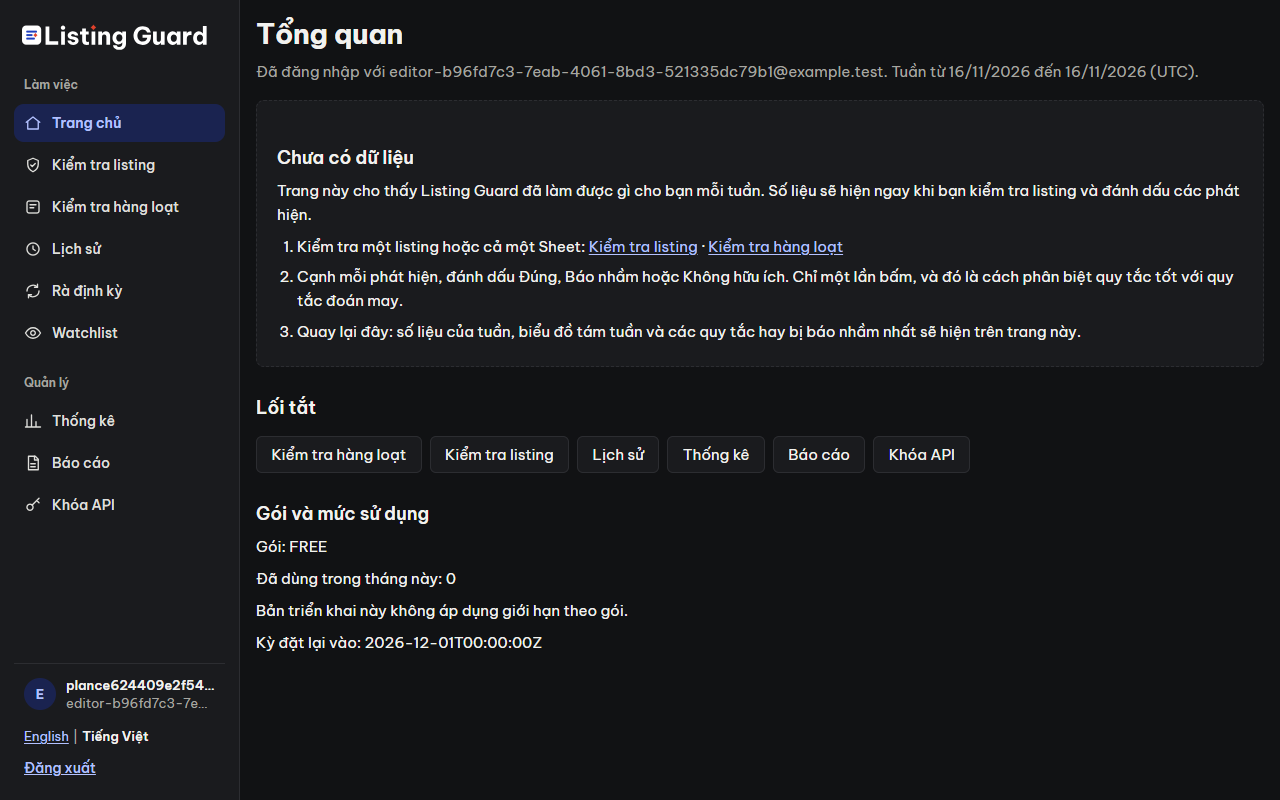
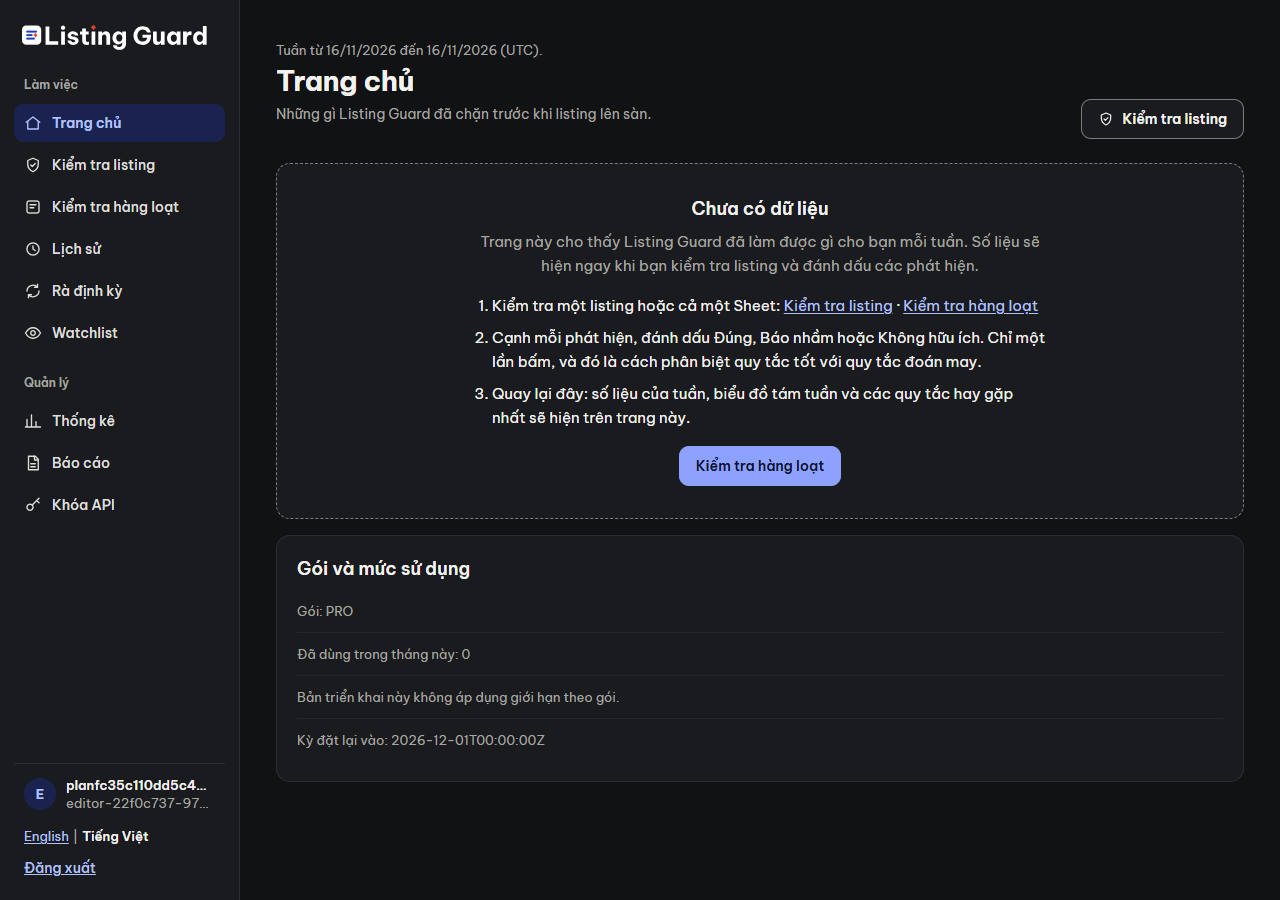
docs: ADR-041, screenshots of the work pages, bulk check and edit mode guides, release notes
New ADR-041 with the differences from the mockups, amendments to ADR-034 and ADR-040, light and dark screenshots of the home page, bulk result and detail, Check listing and edit mode, updated CLAUDE.md and unreleased release notes.

diff --git a/docs/adr/ADR-041-console-work-pages.md b/docs/adr/ADR-041-console-work-pages.md
@@ -1,0 +1,167 @@
+# ADR-041: The work pages on the design system
+
+- Status: Proposed
+- Date: 2026-11-16
+- Depends on: [ADR-014](ADR-014-listing-workspace.md) (the editor), [ADR-028](ADR-028-console-localization.md) (no sentence in a
+  template), [ADR-029](ADR-029-console-bulk-check.md) (bulk check), [ADR-033](ADR-033-edit-mode-and-check-history.md) (edit mode),
+  [ADR-034](ADR-034-finding-feedback-and-value-dashboard.md) (the home page, the feedback buttons),
+  [ADR-035](ADR-035-periodic-reaudit.md) (the re-audit notice), [ADR-036](ADR-036-free-tier-llm-providers-and-trademark-context-judge.md)
+  (the LLM label), [ADR-037](ADR-037-llm-rewrite-suggestions-verified-by-rules.md) (rewrite suggestions),
+  [ADR-040](ADR-040-console-visual-identity-and-design-system.md) (the shell, the tokens and `app.css`)
+- Source: the mockups `docs/design/screens/1-trang-chu`, `2-kiem-tra-hang-loat` and `3-chi-tiet-listing`
+- Acceptance convention: Keep Proposed until the PR implementing this ADR is approved and merged. Then set Status to
+  Accepted and Date to the merge date.
+
+## Context
+
+ADR-040 gave the console a shell, tokens and base components and left every page on its own sheet. The pages a seller uses every day
+(the home page, Check listing, Bulk check, edit mode, the rewrite suggestions and the feedback buttons) still had a card with a colored
+edge, four different ways to print one finding, and sheets with their own color names. This ADR moves them to the components. The brief
+is the mockups' layout and order of information, filled with the data each page really has; nothing from a mockup's sample data goes in.
+
+## Decision
+
+### 1. One finding card, one listing view
+
+A finding is printed by one piece of markup, `templates/console/findings.html :: card`, on every page: the editor, a bulk row and an edit
+comparison. `FindingCards` (bean `findingCards`) turns each page's own record into a `FindingCard`; it decides nothing, it only adds the
+words of the page's language. The card has: the level pill (a word and a shape: a diamond for an error, a triangle for a trademark risk
+or a warning, a check for resolved) and the rule id as code; the finding's own message as the heading; where it is (`on <field>`, the
+catalog mark); what the rule checks; the evidence with the marked words; the suggestion and the verified fix in a pale block (the editor's
+"Apply suggestion" button stays the editor's alone and still only fills a field); the ADR-036 label when a language model called the word
+descriptive; the **source line**; and the three feedback buttons (ADR-034, `aria-pressed`).
+
+- **Source line.** `FindingSources` reads the active ruleset: the host name of the first address the rule names ("developers.etsy.com") and
+  the verification word ("verified", "secondary source", "unverified"). It is not the rule's `note`, which says how the number was found,
+  not where. A trademark finding says its origin: the catalog, the client's watchlist or a context rule. A rule the ruleset does not
+  declare has no source line.
+- **The red diamond** marks an `ERROR` and a `HIGH` trademark risk that is not resolved; a resolved finding in edit mode gets a success pill
+  and no diamond.
+- **The listing as checked** (`ListingView`, `findings.html :: listing`) is the left of a result: the title with the words a finding points
+  at marked (`lg-highlight`: the warning ground for a trademark span, the error ground and a line for an error), the tags as chips (a flagged
+  chip has a shape and a word for a screen reader as well as its ground) or the bullet points, and the start of the description. A trademark
+  span is the finding's span; a rule's mark is its value, found in the field, and never the whole field. It is built for the response from the
+  listing of that request and never kept.
+- **The readiness** is a native `<progress>` and the number, "62/100". The maximum is the readiness setting (`baseScore` of
+  `readiness-2026-11.yaml`), read from `ReadinessScorer`, not a number of the page.
+
+### 2. The home page
+
+Header (the week, the title, a sentence, the one brand button "Kiểm tra listing"), the re-audit notice (ADR-035) as a warning banner, four
+figures, **Cần xử lý**, **Dữ liệu kiểm tra**, the chart, the frequent rules, and the plan line.
+
+- **Figures.** Listings checked, listings held back by an `ERROR`, trademark holds by source (watchlist, catalog, context rule) and the
+  reported false-positive rate, from ADR-034's queries. `trademarkHoldsBySource` now tells the client's own watchlist (`watchlist_match`)
+  from the catalog, which share the `matched_mark` column; a result held by two sources is counted under both, as before.
+- **Cần xử lý** is the latest five results of the client with an `ERROR` or a `HIGH` trademark risk, each with its SKU (when a bulk row gave
+  one) or its rule id, a pill, the finding's own message and the marketplace and time. It reads `check_history_event` and the first stored
+  finding of that result (`ConsoleAttentionQueries`), every statement starting with the client's id, a trademark result only while it is
+  retained. **This changes a sentence of ADR-034**: the home page was counts only; it now also prints one finding message and a SKU of this
+  client's own, the same text the History page prints to the same account. The health report, the statistics and the CSV are unchanged and
+  still read no text. The page is `no-store`.
+- **Dữ liệu kiểm tra** is the catalog (source name and the date of its data, from `trademark_catalog_version`, and its version), the
+  number of enabled watchlist entries, the latest re-audit (date and new risks, counts only) and the rulesets in force. The LLM counter of
+  ADR-036 is a row here, not a figure.
+- **The chart** is one series, the listings held back by an `ERROR` per week (the mockup's "Lỗi chặn được theo tuần"), eight weeks, each bar
+  with its number; the current week is the brand color and the weeks before it the pale brand ground with a brand outline (the outline keeps
+  the bar visible; the pale fill alone is under 3:1). The listings checked stay in the table under the chart. This drops ADR-034's second
+  series from the picture, not from the page.
+- **Frequent rules** are the listing rules with the most findings in the eight weeks, with the false positives reported on each; a rule
+  whose count the report did not list (more were marked than it lists) shows a dash, never zero.
+- The home page has **one brand button**: with no data yet it is the empty state's button to the bulk check, and the header's is plain.
+  The shortcuts block is gone (the sidebar has every page); the plan and usage stay as a short list.
+
+### 3. The bulk check
+
+An input card with the segmented "Dán từ Sheet | Tải file", the marketplace, a monospace text area and the two ways forward. At the mapping
+step the columns the page understood are chips ("A → SKU") with "Sửa ánh xạ" opening the table that corrects them (always in the form, so
+one press sends every choice) and the primary button "Kiểm tra N dòng". The result card has the summary pills (rows, errors, rows with a
+trademark finding, warnings, OK, not checked), "Sao chép cột kết quả" and "Tải CSV", the status filter, the table (the red diamond on a row
+whose main finding is an error or a high risk, the status pill, "Chi tiết") and the note that the rows keep the order they were pasted in.
+
+- **The detail** of a row opens under it as a second table row, shown when its "Chi tiết" link is the target of the address (`:target`): no
+  script, it works with the keyboard and the back button, and one detail is open at a time. `bulk.js` hides a detail with its row when the
+  status filter hides the row. The detail has two columns, the listing as checked with its readiness and the trademark result and
+  disclaimer on the left, the cards on the right. The result is still never stored, so a detail cannot be its own page.
+- **"Đạt" stays "Đạt".** The mockup says "Sạch" (clean); ADR-029 chose a word that is never a marketplace's or a trademark verdict, and
+  "clean" would claim more.
+
+### 4. Check listing, edit mode and the rewrite suggestions
+
+Check listing has the form on the left and, on the right, the listing as checked with its readiness, the trademark panel (with the ruleset's
+disclaimer inside it, as ADR-014 requires), the findings grouped by level and, last, a short statement that these are warnings and not
+legal advice, then the simulation. Edit mode has the two text areas side by side and the groups **Mới** (a red diamond), **Đã sửa** (success
+pill, count and, on a finding that is gone, "Đã sửa") and **Còn lại**, each finding a card; a finding that changed says what it said before.
+The rewrite panel is a list of cards with a copy button each; "Không có gợi ý an toàn" and "Không cần sửa" are the empty state.
+
+### 5. The style sheets
+
+`app.css` gained the components of the pages: the finding, the listing, the meter, the feedback buttons, the key-value and attention lists,
+the chart, the candidate, the detail row and the banners for done and refused (`lg-banner--success`, `--error`). `console.css` is now the sheet
+of the pages not moved yet and holds only what they still use, with the old color names written as tokens; `editor.css` and `bulk.css`
+hold the layout of their page only; `rewrite.css` is gone. The alias block of `editor.css` is gone, so no sheet declares a color name of its
+own (`ConsolePageCssTest`: no color code, no old name, no unknown variable, and the list of sheets). The pages that moved do not load
+`console.css`.
+
+### 6. Accessibility
+
+A table has a caption that only a screen reader sees; every decorative icon and the red diamond are `aria-hidden`; the chart is `role="img"`
+named by its heading; the feedback buttons carry `aria-pressed`; the regions that htmx fills (the editor's results, the feedback status, the
+copy status, the rewrite result) are polite live regions; a page has one `h1` and the skip link's target; the readiness meter is a native
+element with a name; the keyboard meets the form before the result and the result before the preview, and a row's link right after the row.
+`ConsoleWorkPagesAccessibilityIntegrationTest` reads these as a browser receives them.
+
+## Differences from the mockups
+
+Data the pages do not have, or a technical limit:
+
+- **Home.** No "Xuất báo cáo" button (the report is its own page); no "+48 so với tuần trước" (this week is partial, so a difference
+  with a whole week would mislead); the second figure is listings with an `ERROR`, not a count of errors; "Cần xử lý" has the marketplace
+  and time where the mockup has a seller account label (a check stores none), and no "Rà định kỳ" rows (a re-audit stores no finding text);
+  the chart shows eight weeks, not six; the rules table has listing rules only (the trademark pack's top list is of marks, not rules).
+- **Bulk.** "Đạt", not "Sạch"; no title column in the table (the title is in the detail, where the words are marked); "Chi tiết" opens
+  under the row, not on a page of its own.
+- **Detail.** No "Chế độ sửa" and "Copy title gợi ý" buttons: edit mode needs both versions and a bulk result is not stored; the rewrite
+  button exists only behind the LLM switch and is in the row's detail. The finding's heading is the finding's own message, not a short title,
+  and its paragraph is the rule's sentence. The tag counter has no maximum in a bulk row (the limits are read for the editor only).
+- **The source line** names a host, not a document title ("Etsy Seller Handbook"), because that is what the ruleset records.
+
+## Consequences
+
+- One look for a finding on every page, and one place to change it.
+- A pack that adds a finding field adds it to `FindingCard` once.
+- The home page reads one finding message and a SKU per attention row; ADR-034's "counts only" no longer holds for that block.
+- Pages not moved yet (API keys, statistics, report, re-audit, watchlist, history) keep `console.css`.
+
+## Alternatives considered
+
+- **Two series in the chart.** Rejected: the mockup draws one, the number of listings checked has its card, and a second bar halves the
+  width of the one the page is about. The table keeps both.
+- **A detail opened by script, or by a hidden checkbox.** Rejected: `:target` needs neither and gives a link with a history.
+- **Passing every field to the card as a fragment parameter.** Rejected: nineteen parameters, and Thymeleaf does not allow a bean call in
+  a fragment argument. A Java adapter per page keeps the template to one call.
+- **"Sạch".** Rejected, see section 3.
+
+## Open questions
+
+1. The Vietnamese copy of the new keys (the home blocks, the finding card, the bulk detail) needs a native read, like the rest of ADR-028.
+2. Should "Cần xử lý" list re-audit rows once a re-audit keeps a finding message? Today it keeps none, on purpose (ADR-035).
+3. Should the bulk result table show the title? It would put the seller's text in the table as well as in the detail.
+
+## Results
+
+Rendered and photographed (Chromium, 1280 px, light and dark, Vietnamese, synthetic listings and the DEMO catalog): the home page with a week of
+data and with none, the bulk check result and the detail of a row, Check listing with a result, and edit mode.
+
+![Home, light](../images/console/home-week-light.png)
+![Home, dark](../images/console/home-week-dark.png)
+![Bulk result, light](../images/console/bulk-result-light.png)
+![Bulk result, dark](../images/console/bulk-result-dark.png)
+![Bulk row detail, light](../images/console/bulk-detail-light.png)
+![Bulk row detail, dark](../images/console/bulk-detail-dark.png)
+![Check listing, light](../images/console/editor-result-light.png)
+![Check listing, dark](../images/console/editor-result-dark.png)
+![Edit mode, light](../images/console/edit-mode-light.png)
+![Edit mode, dark](../images/console/edit-mode-dark.png)
+
+Not measured: Safari and Firefox, a screen reader, and a window narrower than 600 px.

diff --git a/CLAUDE.md b/CLAUDE.md
@@ -405,7 +405,7 @@ It never edits a listing, never publishes, and does no SEO.
   paginates saved pack results, and stores event references (actor, result, time, marketplace, row count, optional SKU) only; listing
   text is never stored. A history result cannot restore the prior listing: edit mode leaves Before blank and asks the seller to paste it.
   SDK, read-only MCP `check_listing_edit`, agent skill, OpenAPI and integration docs are updated. **LLM rewrite suggestions (ADR-037, Proposed; V42)** (`api/.../rewrite/`,
-  `console/editor/ConsoleRewriteController`, `templates/console/rewrite{,-page}.html`, `static/console/rewrite.{js,css}`,
+  `console/editor/ConsoleRewriteController`, `templates/console/rewrite{,-page}.html`, `static/console/rewrite.js`,
   [docs/llm.md](docs/llm.md)): **off by default** (`listing-guard.llm.rewrite.enabled=false`) and is usable only when the shared ADR-036 `LlmClient` is on with a provider whose listing-text flag is true
   (`LlmClient.canServe(LISTING_TEXT)`): with the switch off there is no bean of the package and no route, with no such provider there is no
   button (`rewriteAvailable` from `ConsoleRewriteAdvice`). A press of "Gợi ý sửa" (editor, and each bulk row with an ERROR or a
@@ -458,8 +458,9 @@ It never edits a listing, never publishes, and does no SEO.
   note and times, **never a text of the listing**. `FindingFeedbackService` is the only writer and `FeedbackStatsQueries` the only place that
   counts verdicts (statistics page and endpoint, home page, health report). htmx 2.0.4 comes from the WebJar (`api/pom.xml` `htmx.version`
   equals `ConsoleVendorResources.HTMX_VERSION`, a test holds it), is served at `/console/vendor/htmx.min.js` and is the only script added; the
-  widget is a plain POST form that works without it. `GET /console` is the home page (week cards, a server-drawn SVG chart of eight
-  weeks, rules most often marked false positive, shortcuts, an empty state) and `GET /console/stats[.csv]` the statistics. API:
+  widget is a plain POST form that works without it. `GET /console` is the home page (ADR-041: four week figures with the trademark
+  holds by source, "Cần xử lý" (the latest results with an ERROR or a HIGH risk), "Dữ liệu kiểm tra" (catalog and its date, watchlist, latest
+  re-audit, rulesets), a server-drawn SVG chart of eight weeks, the most frequent rules with their false positives, an empty state) and `GET /console/stats[.csv]` the statistics. API:
   `POST /api/v1/feedback` and `GET /api/v1/feedback/stats` (no plan pack, no quota; problems `invalid-feedback`, `finding-not-found`);
   `HealthReport.feedback`. The MCP server and the SDK have no method for them.
   **Periodic re-audit (ADR-035, Proposed; V40)** (`api/.../console/reaudit/`, `templates/console/reaudit*.html`; docs/reaudit.md): menu
@@ -1050,9 +1051,15 @@ On Windows use `mvnw.cmd`, with `JAVA_HOME` pointing at a JDK 21.
   `--variant`; the shell is `app-`), with a state shown by a word and a shape (red only for a problem: `--danger` text, `--accent` the diamond
   mark), and its text from message keys in both bundles. No gradient, no emoji, no card with a colored edge on one side. Dark is
   `prefers-color-scheme` only. Never edit `static/brand/` by hand: change `docs/design/` and run `scripts/sync-brand-assets.sh`
-  (`BrandTokensInSyncTest` fails a copy that differs). The old page sheets (`editor.css`, `console.css`, `bulk.css`, `rewrite.css`,
-  `watchlist.css`) are being retired page by page; `editor.css` keeps aliases of its old color names to tokens (`--accent` there is gone: the
-  token `--accent` is red). A test that scans a page for `<img>`, `<svg>` or `<script>` strips the sidebar first (`ConsoleTestSupport.withoutShell`).
+  (`BrandTokensInSyncTest` fails a copy that differs). **The work pages (ADR-041)** (home, Check listing, bulk check, edit mode, rewrite, feedback)
+  are on the components: a page that prints a finding builds a `FindingCard` through the bean `findingCards` (`FindingCards`: editor, bulk row,
+  edit comparison; `FindingSources` adds the source line from the active ruleset) and includes `console/findings :: card(${card})`, never its own
+  markup; the listing as checked is `ListingView` (`findings :: listing`) and the readiness a `<progress>` whose maximum is the readiness
+  setting. A fragment argument may not call a bean: evaluate it with `th:with` first. The bulk detail opens by `:target`, no script. Old sheets:
+  `console.css` is the sheet of the pages not moved yet (API keys, statistics, report, re-audit, watchlist, history) and goes with them;
+  `editor.css` and `bulk.css` hold the layout of their page only; `rewrite.css` and the alias block are gone, and `ConsolePageCssTest` holds
+  every sheet to no color code and no color name of its own. `ConsoleWorkPagesAccessibilityIntegrationTest` holds the captions, `aria-hidden`
+  icons, `aria-pressed` and live regions. A test that scans a page for `<img>`, `<svg>` or `<script>` strips the sidebar first (`ConsoleTestSupport.withoutShell`).
 
 ## Git
 

diff --git a/docs/bulk-check.md b/docs/bulk-check.md
@@ -14,7 +14,8 @@ OK, Warning, Error trên trang tiếng Anh.
 
 > **Ảnh chụp.** Các ô `[Ảnh chụp: ...]` bên dưới là chỗ để ảnh. Chưa chụp được ở lần viết này; khi chụp, đặt file vào
 > `docs/images/bulk-check/` với đúng tên ghi trong từng ô và thay ô bằng một ảnh Markdown trỏ tới `images/bulk-check/` cùng tên
-> file đó. Dùng listing giả (ví dụ mục `Zibblefrax` của catalog DEMO), không dùng dữ liệu thật của khách.
+> file đó. Dùng listing giả (ví dụ mục `Zibblefrax` của catalog DEMO), không dùng dữ liệu thật của khách. Ảnh của bảng kết quả và của
+> chi tiết một dòng đã có ở mục 4 (listing giả, catalog DEMO, giao diện sáng và tối).
 
 ## 1. Dán từ Sheet
 
@@ -33,7 +34,9 @@ bị cắt sẽ lệch dòng so với Sheet. Hãy chia thành nhiều lần dán
 
 ## 2. Chọn mỗi cột là gì
 
-Trang liệt kê các cột của bảng, vài ô mẫu của mỗi cột và một danh sách chọn.
+Trang cho thấy các cột đã được nhận dưới dạng nhãn (ví dụ `A → SKU`, `B → Title`, `C → Tags`) và nút chính **Kiểm tra N dòng** (N là
+số dòng sẽ được kiểm tra, không tính dòng trống). Liên kết **Sửa ánh xạ** mở bảng các cột, mỗi cột có vài ô mẫu và một danh sách chọn;
+bảng tự mở khi chưa cột nào được nhận hoặc khi có lỗi cần sửa.
 
 `[Ảnh chụp: bulk-02-mapping.png — bước chọn cột với các cột đã được đoán sẵn]`
 
@@ -68,10 +71,14 @@ phân tách bằng dấu phẩy*).
 
 ## 4. Đọc kết quả
 
-`[Ảnh chụp: bulk-04-result.png — bảng kết quả với bộ lọc trạng thái và nút sao chép]`
+![Kết quả kiểm tra hàng loạt, giao diện sáng](images/console/bulk-result-light.png)
+![Kết quả kiểm tra hàng loạt, giao diện tối](images/console/bulk-result-dark.png)
+
+Đầu thẻ kết quả có các nhãn tóm tắt: số dòng, **Lỗi**, **Trademark** (số dòng có phát hiện nhãn hiệu; tính riêng nên một dòng có thể vừa
+Lỗi vừa Trademark), **Cảnh báo**, **Đạt** và **Chưa kiểm tra hoặc bỏ qua**.
 
 Bảng có một dòng cho mỗi dòng bạn đã dán, **đúng thứ tự**: số dòng gốc (dòng của văn bản nơi hàng đó bắt đầu, dòng tiêu đề là dòng 1),
-SKU nếu có, trạng thái, số phát hiện và phát hiện chính.
+SKU nếu có, trạng thái, số phát hiện và phát hiện chính. Dấu thoi đỏ đứng trước phát hiện chính khi đó là lỗi hoặc rủi ro nhãn hiệu cao.
 
 | Trạng thái | Nghĩa |
 | --- | --- |
@@ -84,9 +91,18 @@ SKU nếu có, trạng thái, số phát hiện và phát hiện chính.
 
 Phát hiện chính là cái đầu tiên trong thứ tự: lỗi quy tắc, rủi ro nhãn hiệu cao, cảnh báo quy tắc, cảnh báo biến thể, rủi ro nhãn hiệu
 trung bình, thông tin, rủi ro nhãn hiệu thấp. **Lọc** theo trạng thái bằng các nút phía trên bảng (cần JavaScript; không có thì mọi dòng
-đều hiện). **Bấm vào phát hiện chính** của một dòng để mở chi tiết như trang *Check listing*: điểm sẵn sàng đăng và bảng rủi ro nhãn
-hiệu cạnh nhau (kèm lời tuyên bố của catalog nhãn hiệu), rồi các phát hiện với thông điệp, gợi ý và, nếu có, gợi ý sửa đã được kiểm
-chứng. Gợi ý sửa chỉ để đọc; trang không áp dụng nó.
+đều hiện). Bấm **Chi tiết** ở cuối dòng để mở chi tiết ngay dưới dòng đó (không cần JavaScript; bấm **Đóng chi tiết** hoặc nút Quay lại của trình
+duyệt để đóng; mỗi lúc mở một chi tiết).
+
+![Chi tiết một dòng, giao diện sáng](images/console/bulk-detail-light.png)
+![Chi tiết một dòng, giao diện tối](images/console/bulk-detail-dark.png)
+
+Chi tiết có hai cột. Bên trái là **nội dung listing đã kiểm tra**: title với chữ bị phát hiện được tô (nền vàng nhạt cho nhãn hiệu, nền
+đỏ nhạt cho lỗi), tag dạng chip (chip bị gắn cờ có hình thoi hoặc tam giác, và chữ cho người đọc màn hình), phần đầu mô tả, điểm sẵn
+sàng đăng dạng thanh tiến độ, và kết quả nhãn hiệu kèm lời tuyên bố của catalog nhãn hiệu. Bên phải là **một thẻ cho mỗi phát hiện**:
+mức và rule id, thông điệp, quy tắc kiểm tra điều gì, bằng chứng, gợi ý và (nếu có) gợi ý sửa đã được kiểm chứng, nguồn của ngưỡng và
+mức xác minh, rồi ba nút phản hồi *Đúng*, *Báo nhầm*, *Không hữu ích*. Gợi ý sửa chỉ để đọc; trang không áp dụng nó. Nội dung listing
+chỉ có trong trang vừa nhận được; nó không được lưu.
 
 ### Chép kết quả ngược vào Sheet
 

diff --git a/docs/releases/unreleased.md b/docs/releases/unreleased.md
@@ -2,7 +2,7 @@
 
 Changes on `main` since v0.8.0 (see [v0.8.0.md](v0.8.0.md)) that have not shipped yet: edit mode and check history (ADR-033), finding feedback (ADR-034), the console in English
 and Vietnamese (ADR-028), the console bulk check (ADR-029), the `hf-convert` job (ADR-030), the value backtest with the labelled
-evaluation (ADR-032), the client trademark watchlist (ADR-031) the periodic re-audit of active listings (ADR-035) and the console's visual identity (ADR-040). Finding feedback,
+evaluation (ADR-032), the client trademark watchlist (ADR-031) the periodic re-audit of active listings (ADR-035), the console's visual identity (ADR-040) and the work pages on it (ADR-041). Finding feedback,
 the watchlist, edit mode and the re-audit touch the API, and only additively (see their sections); the bulk check adds migration V36,
 finding feedback V37, the watchlist V38, check history V39, the re-audit V40, the LLM usage counter V41 (ADR-036, off by default) and the rewrite suggestions V42 (ADR-037, off by default, console only), all additive. The other changes touch no API response,
 request, status, header or migration.
@@ -32,6 +32,31 @@ system setting, and one page shell. Sellers see it on every page; no page was re
 - **No API, migration or setting changes.** The new Vietnamese words (group names, skip link, menu) are in the message files and need the
   same native read as the rest of ADR-028's Vietnamese. The home page's cards (colored top edge) and a few other old rules still break the
   brief until their pages move to the components.
+
+### The work pages on the design system (ADR-041)
+
+The pages a seller uses every day now follow the mockups of the design pack: the home page, Check listing, the bulk check, edit mode, the
+rewrite suggestions and the feedback buttons. Light and dark, Vietnamese and English. Guide for sellers: [bulk-check.md](../bulk-check.md),
+[edit-mode.md](../edit-mode.md); screenshots in `docs/images/console/`.
+
+- **Home.** The week in four figures (listings checked, held back by an `ERROR`, trademark holds by source: watchlist, catalog, context
+  rule, and the reported false-positive rate); **Cần xử lý**, the latest results with an `ERROR` or a high trademark risk, each with its SKU;
+  **Dữ liệu kiểm tra** (the catalog and the date of its data, the enabled watchlist marks, the latest re-audit, the rulesets); the chart of
+  eight weeks (one series now, the listings held back by an `ERROR`; the listings checked stay in the table under it); the most frequent
+  rules with their false positives; the re-audit reminder as a warning banner. With no data it is an invitation with one button to the bulk
+  check. The shortcuts block is gone (the sidebar has every page).
+- **One finding card everywhere.** Level pill and rule id, the message, what the rule checks, the evidence, the suggestion in a pale block,
+  the source of the threshold and how well it is backed, the LLM label (ADR-036), and the three feedback buttons. Check listing shows the
+  listing as checked on the right with the words a finding points at marked, flagged tags and the readiness as a progress bar; the bulk
+  check opens the same two columns under a row ("Chi tiết", no script); edit mode shows **Mới**, **Đã sửa** and **Còn lại** as cards.
+- **Bulk check.** Input card with "Dán từ Sheet | Tải file", the columns it understood as chips, "Sửa ánh xạ" and "Kiểm tra N dòng"; the
+  result has summary pills (a row with a trademark finding is counted apart), "Sao chép cột kết quả" and "Tải CSV". "Đạt" stays "Đạt".
+- **Rewrite suggestions** are cards with a copy button; "Không có gợi ý an toàn" is the empty state.
+- **What changed behind it.** The home page reads one finding message and a SKU of the signed-in client's own results (the same text the
+  History page shows; the health report and the statistics still read none). `trademarkHoldsBySource` separates the watchlist from the
+  catalog. `rewrite.css` and the old color aliases are gone; the page sheets hold no color of their own.
+- **No API, migration or setting changes.** No endpoint, schema, OpenAPI, SDK or MCP change; compatibility report: none.
+- **Open:** the Vietnamese copy of the new texts needs a native read; the differences from the mockups are listed in ADR-041.
 
 ### LLM rewrite suggestions verified by rules (ADR-037)
 

diff --git a/docs/feedback.md b/docs/feedback.md
@@ -44,13 +44,21 @@ For the current ISO week (Monday, UTC, to now):
 
 - **Listings checked**: stored listing-rules results (a listing checked again unchanged counts once).
 - **Held back by an ERROR**: results with at least one `ERROR` finding.
-- **Trademark holds (HIGH)**: retained trademark results with at least one `HIGH` finding, split by source (catalog mark or context
-  rule; the watchlist shows "not available yet"). `HIGH` is the default hold level of `batch-check`.
+- **Trademark holds (HIGH)**: retained trademark results with at least one `HIGH` finding, split by source (the client's own watchlist,
+  a catalog mark, or a context rule; a result held by two sources is counted under both). `HIGH` is the default hold level of `batch-check`.
 - **Reported false positives**: *False positive* verdicts of the week out of all verdicts of the week.
 
-Under the cards: a chart of the last eight weeks (listings checked and listings with an `ERROR`, drawn on the server as SVG, with the same
-numbers in a table), the five rules most often marked *False positive* in those weeks, shortcuts (Bulk check, Check listing, Statistics,
-Report, API keys) and the plan and usage. A client with no result and no verdict in eight weeks sees three steps to start instead.
+Under the figures ([ADR-041](adr/ADR-041-console-work-pages.md)):
+
+- **Cần xử lý** (needs attention): the latest five results of the client with an `ERROR` or a `HIGH` trademark risk, each with the SKU a
+  bulk row gave (or the rule id), the finding's own message, the marketplace and the time. It is the one block that prints text of the
+  client's own results (the same text the History page prints); the statistics and the report still read none.
+- **Dữ liệu kiểm tra**: the trademark catalog in use and the date of its data, the enabled watchlist marks, the latest re-audit and the
+  rulesets in force (and the LLM requests today, when the LLM is on).
+- A chart of the last eight weeks (the listings held back by an `ERROR`, drawn on the server as SVG; the listings checked are in the table
+  under it), the five listing rules with the most findings with the false positives reported on each (a dash when the report cannot say),
+  and the plan and usage. The re-audit reminder (ADR-035) is a warning banner at the top.
+- A client with no result and no verdict in eight weeks sees three steps to start instead, and a button to the bulk check.
 
 ## The Statistics page (`/console/stats`)
 

diff --git a/docs/edit-mode.md b/docs/edit-mode.md
@@ -34,8 +34,14 @@ the target points to its retained before result; for new, changed and remaining 
 
 ## Console
 
-The editor's **Edit mode** opens two columns for the `Trước` and `Sau` marketplace JSON. Results are grouped as **Mới**, **Đã sửa**
-and **Còn lại**. The existing feedback widget appears on findings in all three groups.
+The editor's **Edit mode** opens two columns for the `Trước` and `Sau` marketplace JSON. Under them the changed fields are chips, and
+the findings are grouped as **Mới** (marked with the red diamond), **Đã sửa** (a success pill) and **Còn lại**. Every finding is the same
+finding card as on Check listing and the bulk check (ADR-041): the level pill and the rule id, the message, what the rule checks, the
+suggestion, where the threshold comes from, and the feedback buttons of ADR-034 in all three groups. A finding that is gone after the
+edit says "Đã sửa" and has no red diamond; a finding that changed shows what it said before.
+
+![Edit mode, light](images/console/edit-mode-light.png)
+![Edit mode, dark](images/console/edit-mode-dark.png)
 
 The **Lịch sử kiểm tra** page lists stored results for the signed-in account's client, with date, marketplace, checker, row count,
 SKU when a bulk row provides one, error count, trademark count and whether feedback exists. Filters cover date, status, marketplace

diff --git a/docs/adr/ADR-034-finding-feedback-and-value-dashboard.md b/docs/adr/ADR-034-finding-feedback-and-value-dashboard.md
@@ -198,6 +198,16 @@ The history page, the edit mode and the watchlist named in the brief are not on 
 - The rates are what reviewers said, not a measured precision: a seller marks what they look at, so the sample is biased toward
   findings that surprised them. The pages say "reported", never "accuracy".
 
+## Amendment (ADR-041)
+
+[ADR-041](ADR-041-console-work-pages.md) redrew the home page on the design system and changed what it reads. The statement that the page
+holds counts only is no longer true for one block: **Cần xử lý** prints, for the latest five results of the client with an `ERROR` or a `HIGH`
+trademark risk, the SKU a bulk row gave (or the rule id), the first such finding's own message, the marketplace and the time, read from
+`check_history_event` and the stored finding with the client's id first (the same text the History page prints to the same account). The
+health report, the statistics page and the CSV still read no text. The trademark holds are now counted by three sources (catalog, the
+client's own watchlist, context rule) and the chart draws one series, the listings held back by an `ERROR` (the listings checked stay in
+the table under it).
+
 ## Open questions
 
 1. Should a client's members see each other's verdicts at the finding (a team review), or only the counts (this record)?

diff --git a/docs/adr/ADR-040-console-visual-identity-and-design-system.md b/docs/adr/ADR-040-console-visual-identity-and-design-system.md
@@ -129,7 +129,9 @@ Every console page now loads the tokens and `app.css` and sits in the new shell.
 renamed to `--brand` where it was read (the token `--accent` is red); the old top bar, the body font and the heading sizes are gone from
 `editor.css` because `app.css` owns them. Pages are moved to the components one per pull request and their old rules deleted; when none
 remains, the alias block goes. Until then a few old rules break the brief (the home page's cards with a colored top edge, for example) and are
-listed in the pull request that introduced this ADR.
+listed in the pull request that introduced this ADR. [ADR-041](ADR-041-console-work-pages.md) moved the pages of daily work (home, Check
+listing, bulk check, edit mode, rewrite suggestions, the feedback buttons): `rewrite.css` and the alias block are gone, `editor.css` and
+`bulk.css` keep the layout of their page, and `console.css` is the sheet of the pages not moved yet.
 
 ## Consequences
 
